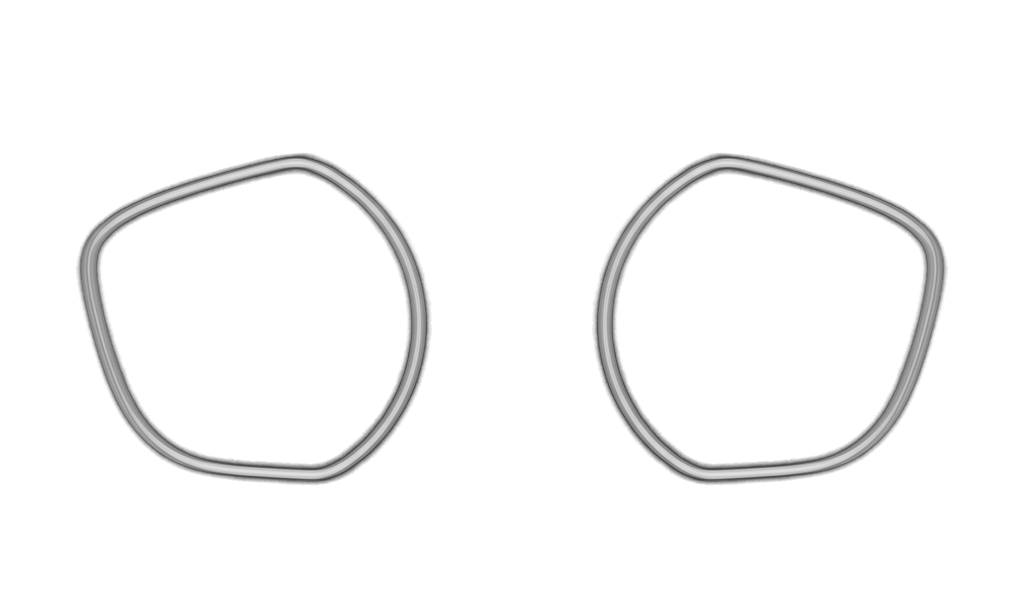
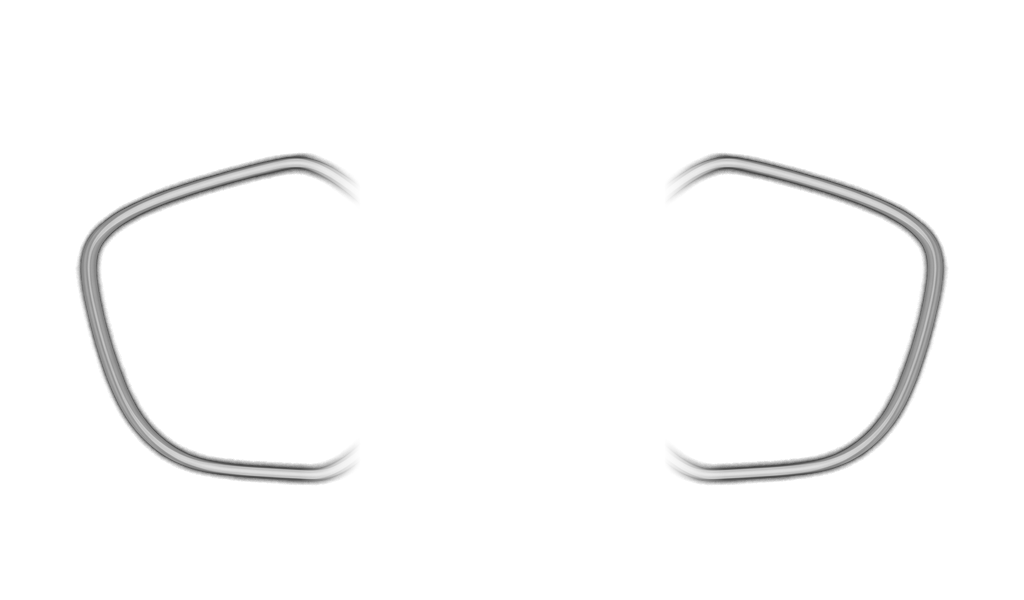
Cut the tubes' inner arcs, leaving a C open toward the centre
Each tube is a closed loop in the plate and the half facing the middle boxed in
the area the car and road need. Faded out rather than sliced: the loop's top
and bottom runs cross the cut almost horizontally, so a hard edge there reads
as the tube being chopped instead of tapering away.

Driven by distance from the centre line over width, so one pair of numbers cuts
both sides and they stay symmetric. 69% of each loop survives.

The cut applies to the tube layers only. The base still has the whole loop
removed, so what shows in the cut region is the empty channel the tube sat in.

Changed region(s): [[0.5625, 0.27, 0.7188, 0.81], [0.2812, 0.27, 0.4375, 0.81]]

diff --git a/tools/make_bezel_v2.py b/tools/make_bezel_v2.py
@@ -56,6 +56,21 @@ CHROMA_LO, CHROMA_HI = 26, 70
 # leaves nothing for speed to reveal.
 BASELINE = 0.40
 
+# Each tube is a closed loop in the plate. Its inner arc -- the half facing the
+# centre -- is cut away, leaving a C open toward the middle, which is what frees
+# the centre for the car and the road.
+#
+# Expressed as distance from the centre line over width, so both sides are cut
+# by one number and stay symmetric. Full strength at or beyond KEEP, gone at or
+# inside GONE. The ramp between them matters: the top and bottom runs of the
+# loop cross it almost horizontally, so a hard edge there would read as the tube
+# being sliced rather than tapering out.
+#
+# The cut applies to the tube layers only. The base still has the whole loop
+# removed from it, so what is left behind in the cut region is the empty channel
+# the tube used to sit in.
+TUBE_KEEP, TUBE_GONE = 0.207, 0.148
+
 # The middle, flattened so the car and road sit on the same dark they were drawn
 # against rather than on the plate's lit centre panel.
 #
@@ -97,6 +112,23 @@ def tube_alpha(im):
     return out
 
 
+def cut_inner_arc(alpha):
+    """Fade the tube out as it approaches the centre line."""
+    keep = TUBE_KEEP * W
+    gone = TUBE_GONE * W
+    span = keep - gone
+    ramp = [0] * W
+    for x in range(W):
+        d = abs(x - W / 2.0)
+        if d >= keep:
+            ramp[x] = 255
+        elif d > gone:
+            ramp[x] = int((d - gone) / span * 255)
+    col = Image.new("L", (W, 1))
+    col.putdata(ramp)
+    return ImageChops.multiply(alpha, col.resize((W, H)))
+
+
 def flatten_middle(im):
     """Replace the centre panel with FLAT, leaving the metal alone."""
     rect = Image.new("L", im.size, 0)
@@ -135,21 +167,26 @@ def main():
     base.save(os.path.join(IMAGES, "v2_bezel_base.png"))
 
     # --- tubes ----------------------------------------------------------------
+    # Cut alpha, not the full one: the base above had the whole loop taken out,
+    # but only the outer C is drawn back as light.
+    arc = cut_inner_arc(alpha)
+
     # Main.qml colorizes these by luminance, so the grey here is what sets how
     # bright each part of the tube reads once it is tinted with ringColor.
     lum = im.convert("L")
-    glow = Image.merge("RGBA", (lum, lum, lum, alpha))
-    glow.save(os.path.join(IMAGES, "v2_bezel_glow.png"))
+    Image.merge("RGBA", (lum, lum, lum, arc)).save(
+        os.path.join(IMAGES, "v2_bezel_glow.png"))
 
     dim = Image.eval(lum, lambda v: int(v * BASELINE))
-    Image.merge("RGBA", (dim, dim, dim, alpha)).save(
+    Image.merge("RGBA", (dim, dim, dim, arc)).save(
         os.path.join(IMAGES, "v2_ring_base.png"))
 
-    lit = sum(1 for p in alpha.get_flattened_data() if p > 8)
+    full = sum(1 for p in alpha.get_flattened_data() if p > 8)
+    kept = sum(1 for p in arc.get_flattened_data() if p > 8)
     print("wrote v2_bezel_base.png, v2_ring_base.png, v2_bezel_glow.png (%dx%d)"
           % (W, H))
-    print("  tube covers %d px (%.2f%% of the plate), bbox %s"
-          % (lit, 100.0 * lit / (W * H), alpha.getbbox()))
+    print("  loop %d px, arc kept %d px (%.0f%%), arc bbox %s"
+          % (full, kept, 100.0 * kept / full, arc.getbbox()))
 
 
 if __name__ == "__main__":
